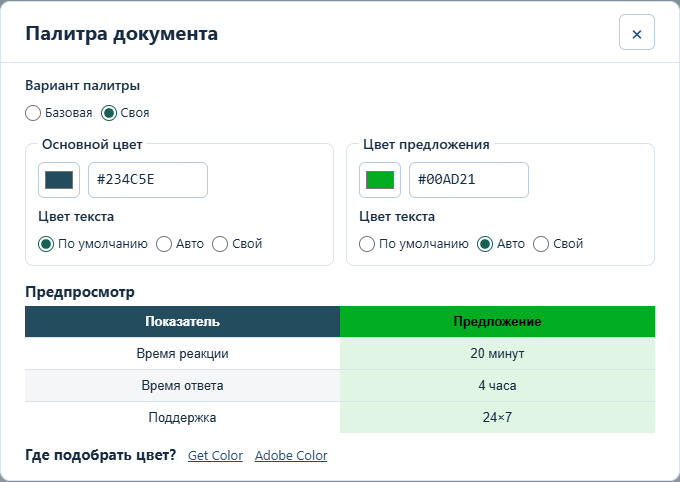
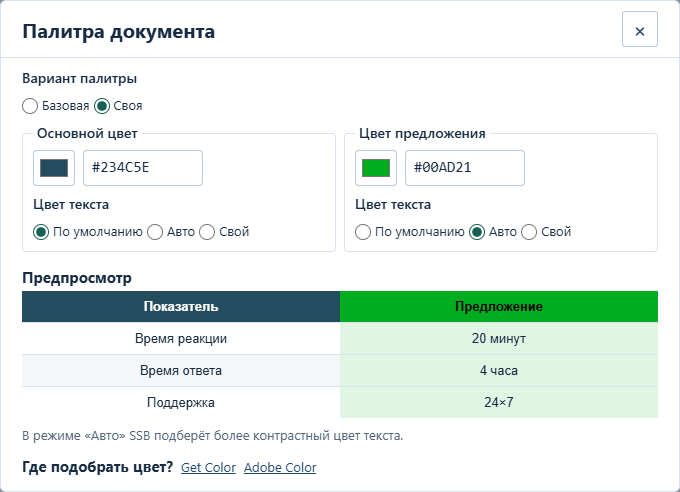
Prepare SSB 1.3.1 compact interface patch and verify PWA upgrade

diff --git a/docs/SSB_1.3.1_RELEASE_REPORT.md b/docs/SSB_1.3.1_RELEASE_REPORT.md
@@ -1,0 +1,83 @@
+# Проверка и выпуск SSB 1.3.1
+
+23 ноября 2026 г. · PATCH к опубликованной 1.3.0.
+
+## Состояние
+
+Локальные проверки кандидата 1.3.1 завершены успешно. Далее — проверка коммита в GitHub Actions, подготовка стабильного черновика Release и запуск существующего workflow до обязательного ручного подтверждения `public-release`. На этом этапе production остаётся 1.3.0; публикация и проверка рабочего сайта ещё не завершены.
+
+## Фактический состав относительно v1.3.0
+
+Сравнение выполнено с тегом `v1.3.0` (`697762a`). В продукт входят только две согласованные визуальные доработки:
+
+1. Компактная геометрия интерфейса: кнопки 3 px, поля и внутренние панели 4 px, основные разделы и окна 6 px; интервалы действий 4/8 px, между разделами 12 px; основные отступы 14/21 px. Сохранены цвета, названия, расположение функций, рабочая область таблицы 78dvh и области нажатия.
+2. Постоянная нейтральная подсказка под предпросмотром палитры: **В режиме «Авто» SSB подберёт более контрастный цвет текста.** Условное жёлтое предупреждение удалено из отображения; алгоритм контрастности, палитра и автосохранение не изменены.
+
+Изменения рабочего кода ограничены CSS, статическим текстом окна палитры и удалением отображения прежнего предупреждения. Импорт, модель предложения, черновики, шаблоны, экспорт Word/Excel, исходники PWA и workflows не изменялись. Дополнены проверки сохранения настроек при обновлении PWA.
+
+В пользовательские CHANGELOG, «Что нового» и Release Notes не включены удаление завершённого локального PWA-стенда, отдельное исправление кавычек и функции 1.3.0. Кавычки «ёлочки» уже присутствовали в исходном предупреждении production 1.3.0. Отчёты обслуживания сохранены как история; незавершённых функций в выпуске нет. Ранее созданный неотслеживаемый аналитический отчёт не включается в коммит.
+
+## Проверки кандидата
+
+Использовались только синтетические каталоги, новые изолированные контексты и отдельные временные профили. Реальные пользовательские данные, установленные рабочие PWA и профили Chrome/Edge не очищались.
+
+| Проверка | Результат |
+|---|---|
+| Установка зависимостей по lockfile | Успешно, без изменения зависимостей |
+| Модульные тесты | 39/39 |
+| Аудит зависимостей, включая низкую серьёзность | Известных уязвимостей не найдено |
+| Production, standalone и штатная dev-сборка | Успешно; версии 1.3.1 и 1.3.1-dev |
+| Источники и импорт JSON | Chrome/Edge: импорт без настроек, все реализованные разделы, ручные настройки, повторный импорт, неоднозначности и диагностика |
+| Личный шаблон и стандарт | Chrome/Edge: сохранение, применение, подтверждения, миграция, новые услуги, автосохранение и восстановление |
+| Палитра | Chrome/Edge: базовая/своя, сохранение собственных значений, ошибки хранения, миграция, 18 сочетаний подсказки и режимов, предпросмотр и выгрузки |
+| Очистка данных и источников | Chrome/Edge: независимость действий, подтверждение/отмена, сохранность шаблона и палитры, ошибки записи |
+| Word и Excel | Проверены скачивание, ZIP/XML, все SLA-представления, все пакеты, заголовки, выбранный пакет, ссылки, описания/условия и отсутствие лишних закреплённых столбцов |
+| Автосохранение и сообщения | Chrome/Edge: тихое сохранение, постоянные реальные ошибки, восстановление черновика |
+| Адаптивность и состояния кнопок | Chrome/Edge, production/dev: 320, 375, 620, 768, 1050, 1440 px; без переполнения страницы и обрезания кнопок; окна доступны; hover, клавиатурный focus, серое disabled |
+| Рабочая область таблицы | Chrome/Edge: 78dvh, закрепление шапки, редактирование, сохранение и прокрутка; включая 320 px и альбомное окно |
+| Обновления и разделение режимов | Chrome/Edge: единый интерфейс, помеченная имитация только в dev; рабочий SW и установка production-обновлений в dev отсутствуют |
+| Помощь | Chrome/Edge: открытие кнопкой, актуальная версия, 10 разделов, 4 изображения, локальные ссылки, возврат и офлайн-доступ |
+| Упаковка | Два ZIP 1.3.1, проверка состава/CRC и SHA-256 |
+
+Браузеры: Chrome 157.0.8103.80, Edge 158.0.4370.33. Локально Node.js 24.22.3 и pnpm 11.25.0; CI использует закреплённый Node.js 24.22.1.
+
+Обычные браузерные сценарии: `sources`, `template`, `palette`, `clear-data`, `sections`, `table-workspace`, `notices`, `dev`, `guide` и `browser`. Отдельные измерения геометрии выполнены вне публичной поставки.
+
+## Обновление установленного PWA
+
+Прочитаны и сохранены точные публичные файлы production 1.3.0 с SHA-256. Проверка перехода **1.3.0 → 1.3.1** выполнена на одном изолированном HTTPS-origin в каждом браузере, с реальной тестовой регистрацией PWA через браузерный протокол. Проверены установка, отдельное окно, отказ от обновления, повреждённый ответ SW, штатное подтверждённое обновление, офлайн-работа, закрытие и повторный запуск браузера, повторное открытие отдельного окна без переустановки.
+
+Черновик, изменённый параметр, выбранный пакет, включение услуг, личный шаблон, настройки источников и собственная палитра сохранились. Параметры постоянных настроек сравниваются до обновления, после него и после перезапуска. Старая ошибка CacheStorage в Chrome, зафиксированная при обслуживании среды, не повторилась в новых профилях с короткими путями; изменений приложения для её обхода не внесено.
+
+Манифест и код SW неизменны относительно 1.3.0: `id: /`, `start_url: ./`, `scope: ./`, `display: standalone`, URL `manifest.webmanifest`. На рабочем origin идентичность остаётся `https://ssb.melgaf.com/`. Меняются версия и контрольные суммы ресурсов сборки. Схема локального хранения и адрес сайта сохраняются.
+
+Ограничения: реальные ярлыки пользователя в «Пуске»/панели задач и перезагрузка Windows не тестировались; реальная рабочая установка не обновлялась в эксперименте. После выпуска проверить её по инструкции ниже. Формирование документов проверено структурно и браузерным скачиванием; отдельный просмотр в настольных Word/Excel в этой итерации не выполнялся.
+
+## Руководство пользователя
+
+Полностью перечитано существующее `USER_GUIDE.md` и сопоставлено с интерфейсом и регрессией. Изменены только реально устаревшие сведения:
+
+- версия/дата и подпись главного экрана;
+- раздел 9: переход с 1.3.0 на 1.3.1;
+- раздел 8: убраны устаревшие оговорки «в 1.3.0»;
+- обновлены все четыре скриншота: основной экран, источники, сравнение, палитра;
+- раздел 7 уже отражает постоянную нейтральную подсказку; повторное изменение текста не потребовалось;
+- в краткой инструкции INSTALL убрана устаревающая привязка отсутствующих кнопок к версии 1.3.0.
+
+Все четыре изображения просмотрены визуально. Кнопка «Помощь», 10 разделов, четыре изображения, внутренние ссылки и офлайн-страница проверены в Chrome и Edge на итоговой сборке. «Что нового» формируется из той же проверенной записи CHANGELOG, что Release Notes.
+
+## Безопасность и контроль публикации
+
+Штатная проверка 116 публичных файлов и обеих сборок с внешним приватным списком запрещённых данных пройдена. Сканирование новой истории перед коммитом также пройдено: 27 текстовых объектов и сообщения коммитов; после фиксации кандидата проверка повторяется. В поставку входят только разрешённые файлы и синтетический пример. Тестовые профили, сертификат localhost, частный список проверки, исходные пользовательские выгрузки и локальные черновики не входят в репозиторий или ZIP. MIT и уведомления сторонних библиотек сохранены.
+
+CI и release workflows не менялись. Подтверждено, что `public-release` требует одобрения владельца; включён прежний контролируемый workflow `Publish an approved release`. Только после успешного CI создаются тег и стабильный черновик Release. До ручного одобрения Release остаётся черновиком, Pages не развёртывается. Предыдущий тег и релиз 1.3.0 не удаляются; штатная инструкция отката сохранена.
+
+## Проверка пользователем после публикации
+
+1. В прежнем браузере и профиле откройте установленный SSB обычным ярлыком.
+2. Нажмите «Проверить обновления», затем «Установить обновление» и подтвердите перезапуск.
+3. Проверьте версию 1.3.1, выбранный пакет, параметры, «Мой шаблон» и собственную палитру.
+4. Закройте все окна SSB и снова откройте прежним ярлыком. Приложение должно открыться отдельным окном.
+5. Проверьте «Помощь», «Что нового», импорт сохранённого JSON и скачивание документов.
+
+Удалять приложение, ярлыки или данные сайта для штатного обновления не требуется.

diff --git a/docs/INSTALL.md b/docs/INSTALL.md
@@ -7,7 +7,7 @@
 3. Выберите вариант предложения и отредактируйте состав и параметры. При наличии вводного текста для выбранного пакета его можно включить в документ. Скачайте Excel или Word.
 4. Для повторного использования конфигурации нажмите **Сохранить как мой шаблон**. Текущее предложение сохраняется в черновике автоматически. Палитра также сохраняется автоматически и не входит в шаблон. При ошибке хранения SSB показывает предупреждение.
 
-В автономном режиме постоянство хранилища зависит от браузера, профиля и пути файла. Шаблон и черновик не переносятся автоматически в другую папку, браузер или компьютер. Перед заменой автономной поставки сохраните необходимые Word и Excel и исходный JSON. В версии 1.3.0 отдельных кнопок переноса настроек нет. Для штатных обновлений без переустановки используйте PWA. Полное руководство откройте через **Помощь** или файлом `user-guide.html` в корне распакованной папки.
+В автономном режиме постоянство хранилища зависит от браузера, профиля и пути файла. Шаблон и черновик не переносятся автоматически в другую папку, браузер или компьютер. Перед заменой автономной поставки сохраните необходимые Word и Excel и исходный JSON. Отдельных кнопок переноса настроек нет. Для штатных обновлений без переустановки используйте PWA. Полное руководство откройте через **Помощь** или файлом `user-guide.html` в корне распакованной папки.
 
 ## Установка PWA
 

diff --git a/docs/UNRELEASED.md b/docs/UNRELEASED.md
@@ -22,3 +22,7 @@
 [Отчёт об установке, ярлыках и обновлениях PWA](PWA_IDENTITY_AUDIT_REPORT.md)
 
 [Инструкция](LOCAL_DEVELOPMENT.md) · [Отчёт о локальной среде](LOCAL_DEVELOPMENT_REPORT.md) · [Отчёт о разделах Confluence и SLA](CONFLUENCE_SECTIONS_REPORT.md) · [Отчёт о представлениях SLA](SLA_LAYOUT_REPORT.md) · [Отчёт об ориентации SLA и прокрутке Excel](SLA_TIMING_REPORT.md) · [Отчёт о названиях пакетов](SUPPORT_LABELS_REPORT.md) · [Отчёт о проверке обновлений PWA](PWA_UPDATE_PREVIEW_REPORT.md) · [Отчёт об оформлении уведомлений и выгрузок](INTERFACE_EXPORT_POLISH_REPORT.md) · [Отчёт о верхних кнопках](HEADER_LAYOUT_REPORT.md) · [Отчёт о сравнительной SLA в Word и прокрутке Excel](WORD_SLA_EXCEL_COLUMNS_REPORT.md) · [Отчёт о заголовках таблиц](TABLE_HEADERS_REPORT.md)
+
+## Кандидат 1.3.1
+
+Выпуск согласован 23 ноября 2026 г. Фактический diff к 1.3.0: компактная геометрия и постоянная подсказка палитры. 39 тестов, регрессия Chrome/Edge, обе поставки, dev-изоляция, руководство и реальное тестовое обновление PWA 1.3.0 → 1.3.1 с сохранением настроек пройдены. Ранее отмеченная ошибка CacheStorage Chrome в свежих профилях с короткими путями не повторилась. [Подробный отчёт](SSB_1.3.1_RELEASE_REPORT.md). Ожидаются аудит итогового коммита, CI и обязательное ручное подтверждение `public-release`. Пункты выше снимаются с учёта только после публикации.

diff --git a/CHANGELOG.md b/CHANGELOG.md
@@ -1,5 +1,21 @@
 # История изменений Support Services Builder
 
+## 1.3.1 — 2026-11-23
+
+### Добавлено
+
+—
+
+### Изменено
+
+- Интерфейс стал строже и компактнее: уменьшены скругления кнопок, полей и окон, интервалы между действиями и отступы разделов. Сохранены цвета, расположение функций и рабочая область таблицы.
+- В палитре документа техническое предупреждение заменено постоянной нейтральной подсказкой о режиме «Авто». Алгоритм подбора цвета, настройки и автосохранение не изменены.
+
+### Исправлено
+
+—
+
+
 ## 1.3.0 — 2026-11-18
 
 ### Добавлено
